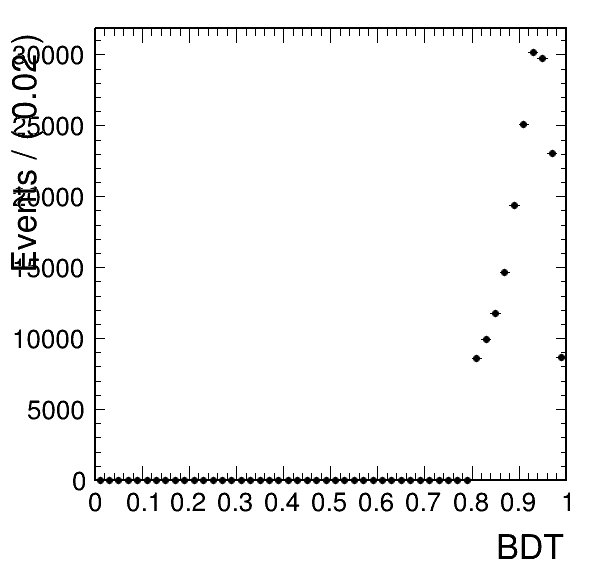
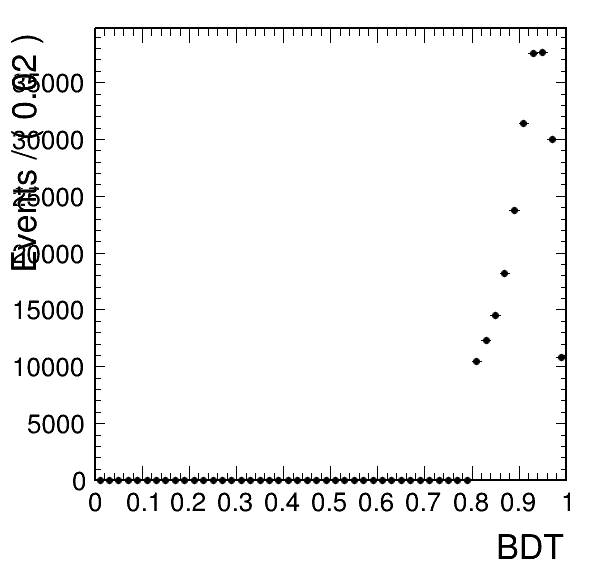
20260310 yhep

diff --git a/main/FITTING/Kspip/MC15rd_generic/opt_v7_fit_v3_optimized/mass_asym_pad/KsKp_offset_etapip_gg_Ds.py b/main/FITTING/Kspip/MC15rd_generic/opt_v7_fit_v3_optimized/mass_asym_pad/KsKp_offset_etapip_gg_Ds.py
@@ -500,7 +500,8 @@ h_curve_asym.Draw("L SAME")
 line_zero = ROOT.TLine(fit_range[0], 0.0, fit_range[1], 0.0)
 line_zero.SetLineStyle(2)
 line_zero.SetLineWidth(2)
-line_zero.SetLineColor(ROOT.kGray+2)
+#line_zero.SetLineColor(ROOT.kGray+2)
+line_zero.SetLineColor(ROOT.kRed)
 line_zero.Draw("SAME")
 
 canvas_D_all.Update()

diff --git a/main/FITTING/Kspip/MC15rd_generic/opt_v7_fit_v3_optimized/mass_asym_pad/KsKp_offset_etapip_pipipi_Ds.py b/main/FITTING/Kspip/MC15rd_generic/opt_v7_fit_v3_optimized/mass_asym_pad/KsKp_offset_etapip_pipipi_Ds.py
@@ -499,7 +499,8 @@ h_curve_asym.Draw("L SAME")
 line_zero = ROOT.TLine(fit_range[0], 0.0, fit_range[1], 0.0)
 line_zero.SetLineStyle(2)
 line_zero.SetLineWidth(2)
-line_zero.SetLineColor(ROOT.kGray+2)
+#line_zero.SetLineColor(ROOT.kGray+2)
+line_zero.SetLineColor(ROOT.kRed)
 line_zero.Draw("SAME")
 
 canvas_D_all.Update()

diff --git a/main/FITTING/Kspip/MC15rd_generic/opt_v7_fit_v3_optimized/mass_asym_pad/Kspip_offset_etapip_gg.py b/main/FITTING/Kspip/MC15rd_generic/opt_v7_fit_v3_optimized/mass_asym_pad/Kspip_offset_etapip_gg.py
@@ -500,7 +500,8 @@ h_curve_asym.Draw("L SAME")
 line_zero = ROOT.TLine(fit_range[0], 0.0, fit_range[1], 0.0)
 line_zero.SetLineStyle(2)
 line_zero.SetLineWidth(2)
-line_zero.SetLineColor(ROOT.kGray+2)
+#line_zero.SetLineColor(ROOT.kGray+2)
+line_zero.SetLineColor(ROOT.kRed)
 line_zero.Draw("SAME")
 
 canvas_D_all.Update()

diff --git a/main/FITTING/Kspip/MC15rd_generic/opt_v7_fit_v3_optimized/mass_asym_pad/Kspip_offset_etapip_pipipi.py b/main/FITTING/Kspip/MC15rd_generic/opt_v7_fit_v3_optimized/mass_asym_pad/Kspip_offset_etapip_pipipi.py
@@ -500,7 +500,8 @@ h_curve_asym.Draw("L SAME")
 line_zero = ROOT.TLine(fit_range[0], 0.0, fit_range[1], 0.0)
 line_zero.SetLineStyle(2)
 line_zero.SetLineWidth(2)
-line_zero.SetLineColor(ROOT.kGray+2)
+#line_zero.SetLineColor(ROOT.kGray+2)
+line_zero.SetLineColor(ROOT.kRed)
 line_zero.Draw("SAME")
 
 canvas_D_all.Update()

diff --git a/main/FITTING/Kspip/proc13/opt_v7_fit_v3_optimized/mass_asym_pad/KsKp_offset_etapip_gg_Ds.py b/main/FITTING/Kspip/proc13/opt_v7_fit_v3_optimized/mass_asym_pad/KsKp_offset_etapip_gg_Ds.py
@@ -497,7 +497,8 @@ h_curve_asym.Draw("L SAME")
 line_zero = ROOT.TLine(fit_range[0], 0.0, fit_range[1], 0.0)
 line_zero.SetLineStyle(2)
 line_zero.SetLineWidth(2)
-line_zero.SetLineColor(ROOT.kGray+2)
+#line_zero.SetLineColor(ROOT.kGray+2)
+line_zero.SetLineColor(ROOT.kRed)
 line_zero.Draw("SAME")
 
 canvas_D_all.Update()

diff --git a/main/FITTING/Kspip/proc13/opt_v7_fit_v3_optimized/mass_asym_pad/KsKp_offset_etapip_pipipi_Ds.py b/main/FITTING/Kspip/proc13/opt_v7_fit_v3_optimized/mass_asym_pad/KsKp_offset_etapip_pipipi_Ds.py
@@ -499,7 +499,8 @@ h_curve_asym.Draw("L SAME")
 line_zero = ROOT.TLine(fit_range[0], 0.0, fit_range[1], 0.0)
 line_zero.SetLineStyle(2)
 line_zero.SetLineWidth(2)
-line_zero.SetLineColor(ROOT.kGray+2)
+#line_zero.SetLineColor(ROOT.kGray+2)
+line_zero.SetLineColor(ROOT.kRed)
 line_zero.Draw("SAME")
 
 canvas_D_all.Update()

diff --git a/main/FITTING/Kspip/proc13/opt_v7_fit_v3_optimized/mass_asym_pad/Kspip_offset_etapip_gg.py b/main/FITTING/Kspip/proc13/opt_v7_fit_v3_optimized/mass_asym_pad/Kspip_offset_etapip_gg.py
@@ -499,7 +499,8 @@ h_curve_asym.Draw("L SAME")
 line_zero = ROOT.TLine(fit_range[0], 0.0, fit_range[1], 0.0)
 line_zero.SetLineStyle(2)
 line_zero.SetLineWidth(2)
-line_zero.SetLineColor(ROOT.kGray+2)
+#line_zero.SetLineColor(ROOT.kGray+2)
+line_zero.SetLineColor(ROOT.kRed)
 line_zero.Draw("SAME")
 
 canvas_D_all.Update()

diff --git a/main/FITTING/Kspip/proc13/opt_v7_fit_v3_optimized/mass_asym_pad/Kspip_offset_etapip_pipipi.py b/main/FITTING/Kspip/proc13/opt_v7_fit_v3_optimized/mass_asym_pad/Kspip_offset_etapip_pipipi.py
@@ -507,7 +507,8 @@ h_curve_asym.Draw("L SAME")
 line_zero = ROOT.TLine(fit_range[0], 0.0, fit_range[1], 0.0)
 line_zero.SetLineStyle(2)
 line_zero.SetLineWidth(2)
-line_zero.SetLineColor(ROOT.kGray+2)
+#line_zero.SetLineColor(ROOT.kGray+2)
+line_zero.SetLineColor(ROOT.kRed)
 line_zero.Draw("SAME")
 
 canvas_D_all.Update()

diff --git a/main/FITTING/etapip/MC15rd_generic/opt_v7_fit_v12_for_optimize/mass_asym_pad/etapip_gg_offset_CB.py b/main/FITTING/etapip/MC15rd_generic/opt_v7_fit_v12_for_optimize/mass_asym_pad/etapip_gg_offset_CB.py
@@ -664,7 +664,8 @@ h_curve_asym.Draw("L SAME")
 line_zero = ROOT.TLine(fit_range[0], 0.0, fit_range[1], 0.0)
 line_zero.SetLineStyle(2)
 line_zero.SetLineWidth(2)
-line_zero.SetLineColor(ROOT.kGray+2)
+#line_zero.SetLineColor(ROOT.kGray+2)
+line_zero.SetLineColor(ROOT.kRed)
 line_zero.Draw("SAME")
 
 canvas_D_all.Update()

diff --git a/main/FITTING/etapip/MC15rd_generic/opt_v7_fit_v12_for_optimize/mass_asym_pad/etapip_pipipi_K_offset_CB.py b/main/FITTING/etapip/MC15rd_generic/opt_v7_fit_v12_for_optimize/mass_asym_pad/etapip_pipipi_K_offset_CB.py
@@ -557,7 +557,8 @@ h_curve_asym.Draw("L SAME")
 line_zero = ROOT.TLine(fit_range[0], 0.0, fit_range[1], 0.0)
 line_zero.SetLineStyle(2)
 line_zero.SetLineWidth(2)
-line_zero.SetLineColor(ROOT.kGray+2)
+#line_zero.SetLineColor(ROOT.kGray+2)
+line_zero.SetLineColor(ROOT.kRed)
 line_zero.Draw("SAME")
 
 canvas_D_all.Update()

diff --git a/main/FITTING/etapip/MC15rd_generic/opt_v7_fit_v12_for_optimize/mass_asym_pad/etapip_pipipi_offset_CB.py b/main/FITTING/etapip/MC15rd_generic/opt_v7_fit_v12_for_optimize/mass_asym_pad/etapip_pipipi_offset_CB.py
@@ -630,7 +630,8 @@ h_curve_asym.Draw("L SAME")
 line_zero = ROOT.TLine(fit_range[0], 0.0, fit_range[1], 0.0)
 line_zero.SetLineStyle(2)
 line_zero.SetLineWidth(2)
-line_zero.SetLineColor(ROOT.kGray+2)
+#line_zero.SetLineColor(ROOT.kGray+2)
+line_zero.SetLineColor(ROOT.kRed)
 line_zero.Draw("SAME")
 
 canvas_D_all.Update()

diff --git a/main/FITTING/etapip/proc13/opt_v7_fit_v12/mass_asym_pad/etapip_gg_offset_CB.py b/main/FITTING/etapip/proc13/opt_v7_fit_v12/mass_asym_pad/etapip_gg_offset_CB.py
@@ -689,7 +689,8 @@ h_curve_asym.Draw("L SAME")
 line_zero = ROOT.TLine(fit_range[0], 0.0, fit_range[1], 0.0)
 line_zero.SetLineStyle(2)
 line_zero.SetLineWidth(2)
-line_zero.SetLineColor(ROOT.kGray+2)
+#line_zero.SetLineColor(ROOT.kGray+2)
+line_zero.SetLineColor(ROOT.kRed)
 line_zero.Draw("SAME")
 
 canvas_D_all.Update()
